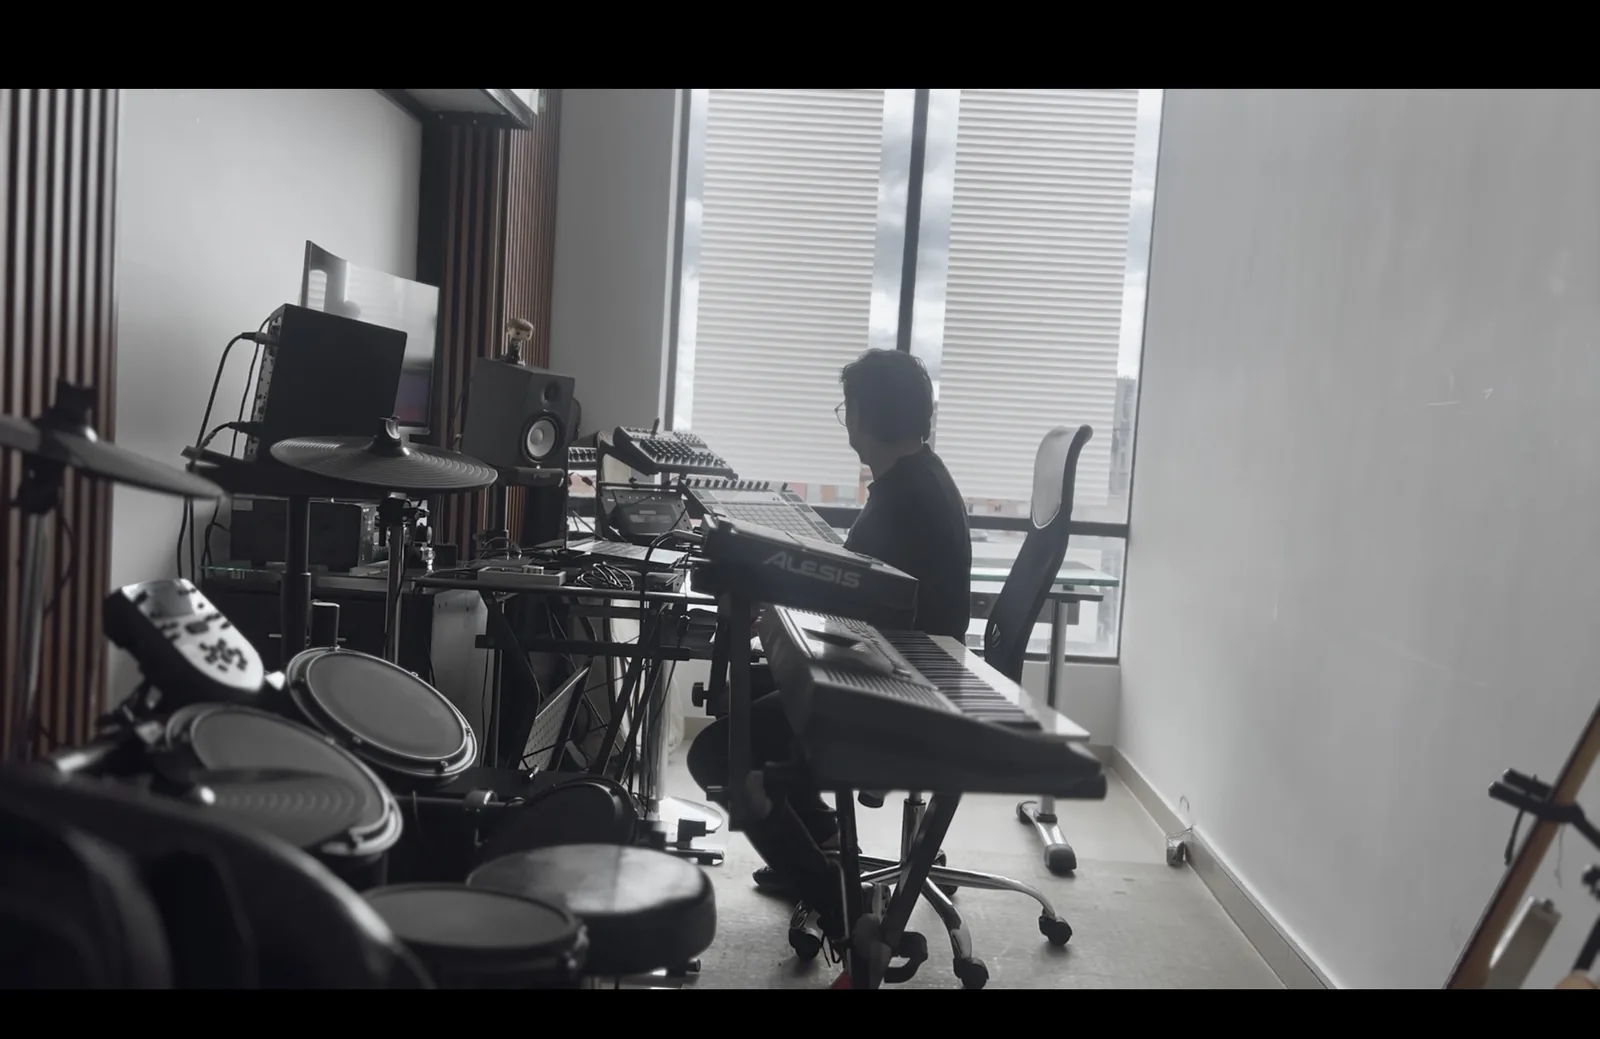
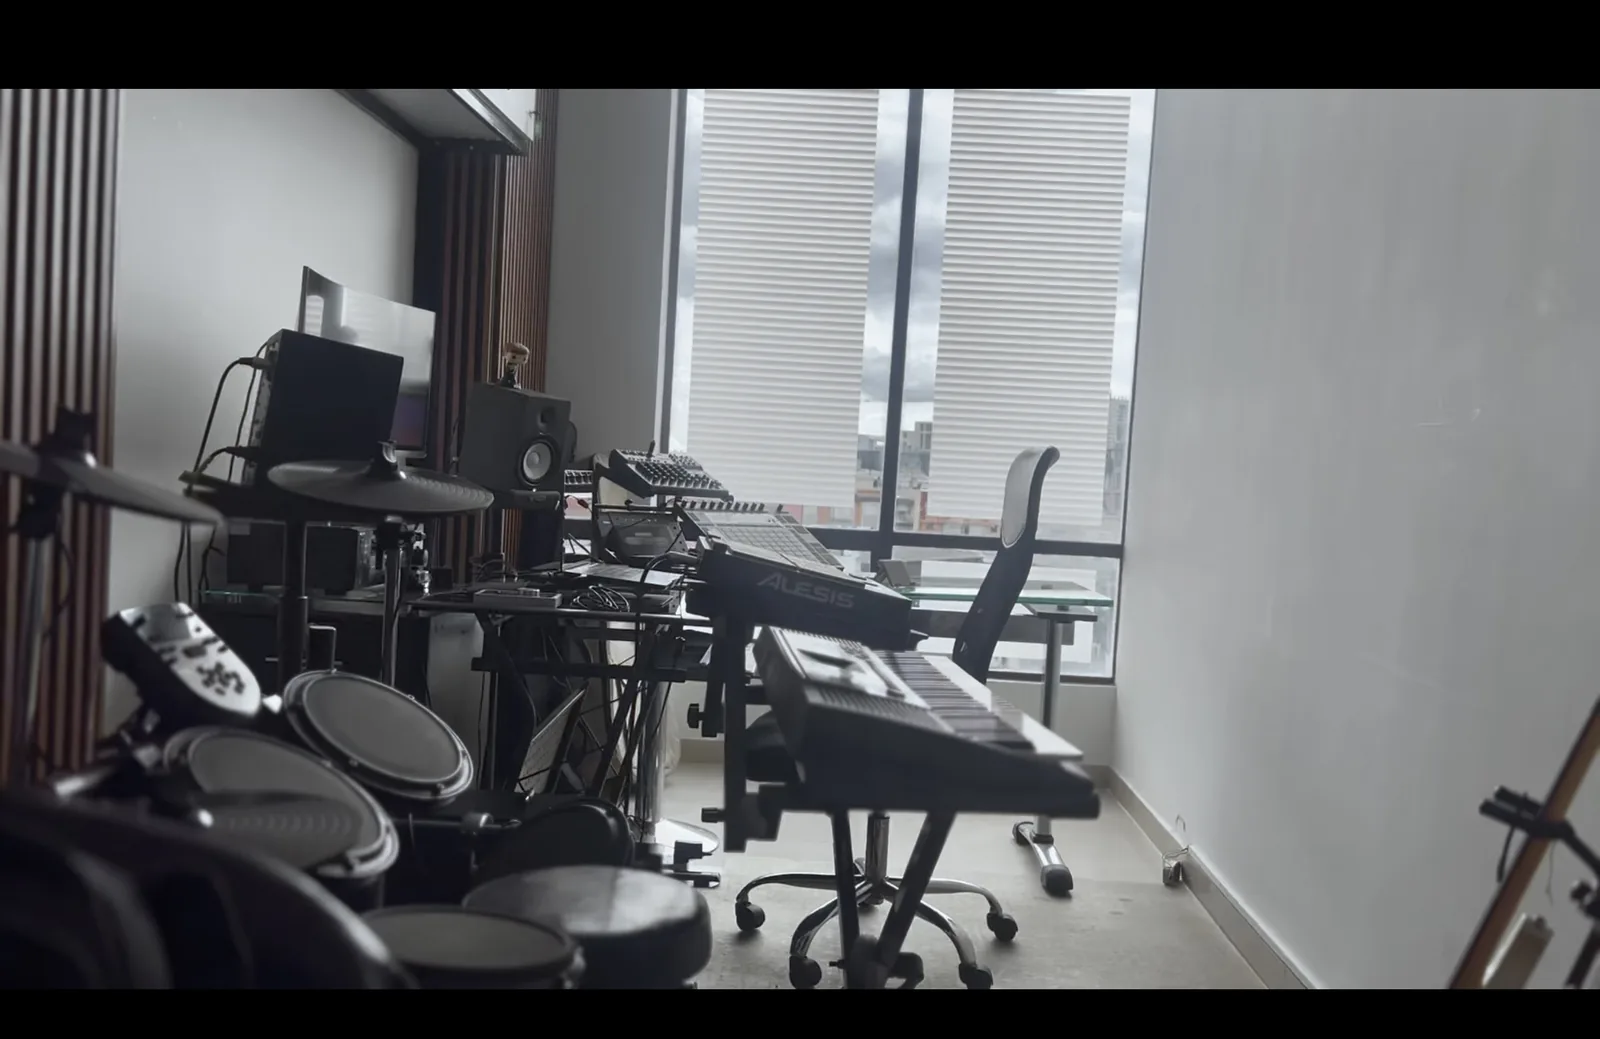
Add files via upload

diff --git a/en/index.html b/en/index.html
@@ -461,7 +461,7 @@
       <picture><source srcset="../assets/logo-white.webp" type="image/webp" /><img src="../assets/logo-white.png" alt="Sky Rock — Music · Film · Content" class="hero-logo" width="640" height="493" /></picture>
     </div>
     <p class="hero-sub">
-      Sonido <span class="dot">·</span> Imagen <span class="dot">·</span> Dirección Creativa
+      Sound <span class="dot">·</span> Visuals <span class="dot">·</span> Creative Direction
     </p>
     <div class="hero-grid">
       <p class="hero-desc">
@@ -645,7 +645,7 @@
         <div class="step-dot"></div>
         <span class="step-num">STEP 01</span>
         <h3 class="step-title">Discovery</h3>
-        <p class="step-desc">Escuchamos tu visión, referencias y objetivos. Definimos identidad sonora y alcance.</p>
+        <p class="step-desc">We listen to your vision, references and goals. We define the sonic identity and scope.</p>
       </div>
       <div class="reveal">
         <div class="step-dot"></div>
@@ -828,7 +828,7 @@
   <div class="footer-main">
     <div>
       <picture><source srcset="../assets/logo-black.webp" type="image/webp" /><img src="../assets/logo-black.png" alt="Skyrock Studio" style="height:90px;width:auto;margin-bottom:1.25rem;" width="332" height="256" /></picture>
-      <p class="footer-brand-desc">Estudio creativo en Bogotá especializado en mezcla, postproducción de audio y producción de contenido audiovisual. Largometrajes, series, cortometrajes y artistas colombianos.</p>
+      <p class="footer-brand-desc">Creative studio in Bogotá specializing in audio mix, post-production and audiovisual content. Feature films, series, short films and Colombian artists.</p>
     </div>
     <div class="footer-col">
       <h5>Contact</h3>